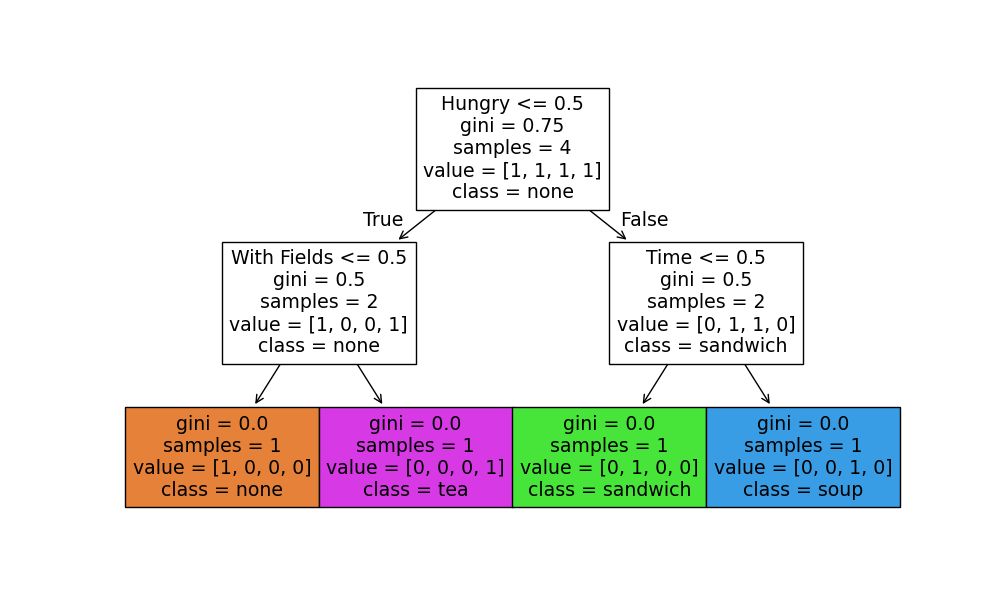
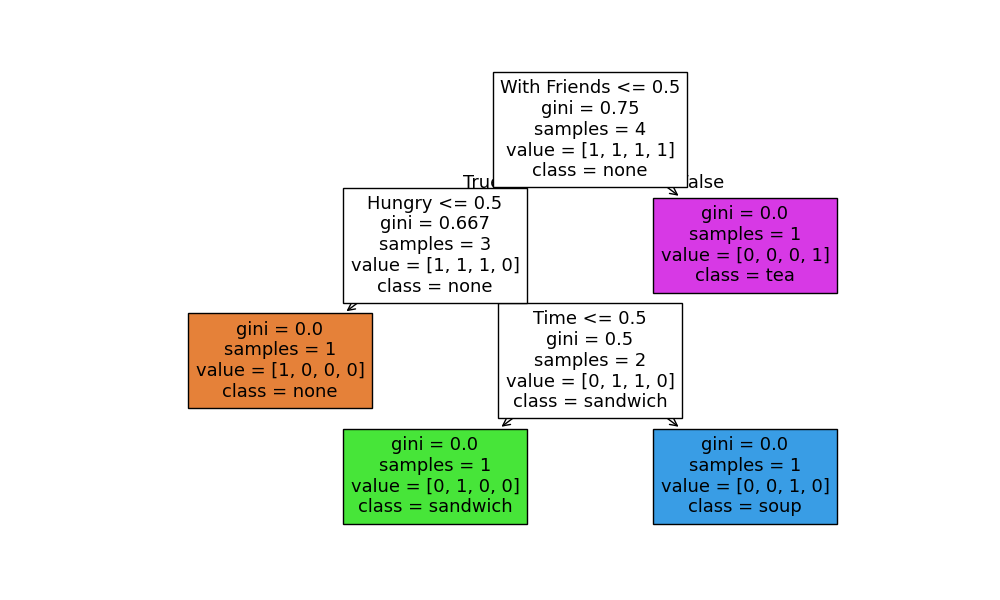
fix: correct feature name from 'With Fields' to 'With Friends' in decision tree plot

Changed region(s): [[0.124, 0.12, 0.899, 0.9], [0.496, 0.42, 0.527, 0.45]]

diff --git a/examples/code01.py b/examples/code01.py
@@ -16,6 +16,6 @@ y = ['soup', 'sandwich', 'tea', 'none']
 clf = clf.fit(x, y)
 
 plt.figure(figsize=(10, 6))
-tree.plot_tree(clf, feature_names=['Hungry', 'Time', 'With Fields'],
+tree.plot_tree(clf, feature_names=['Hungry', 'Time', 'With Friends'],
     class_names=clf.classes_, filled=True)
 plt.savefig('img/res00.png')
